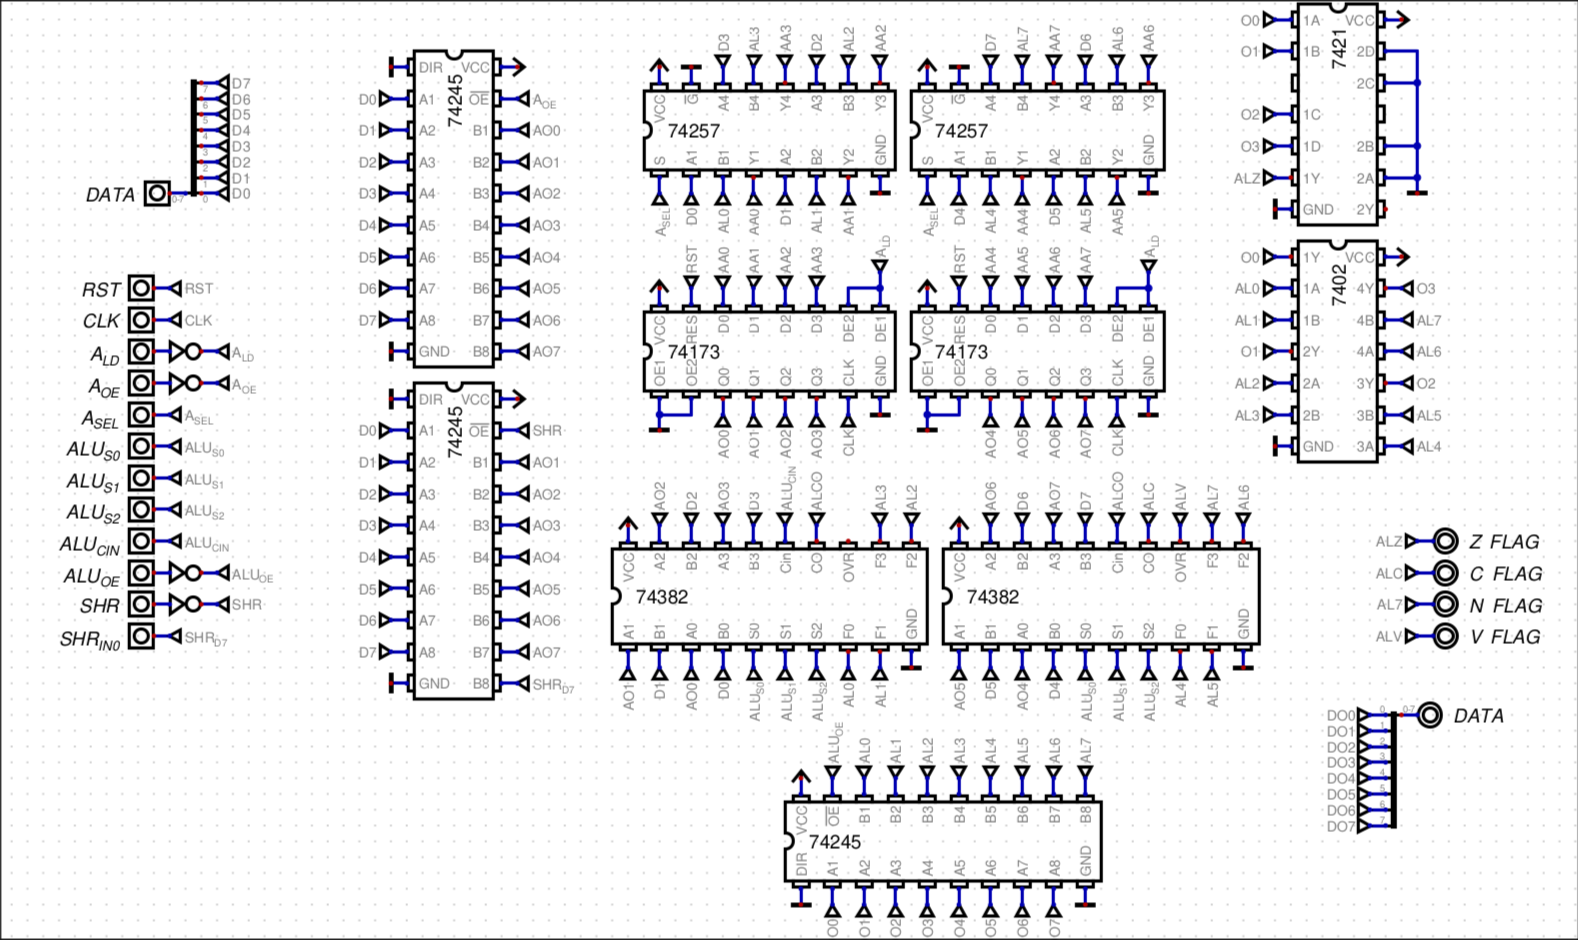
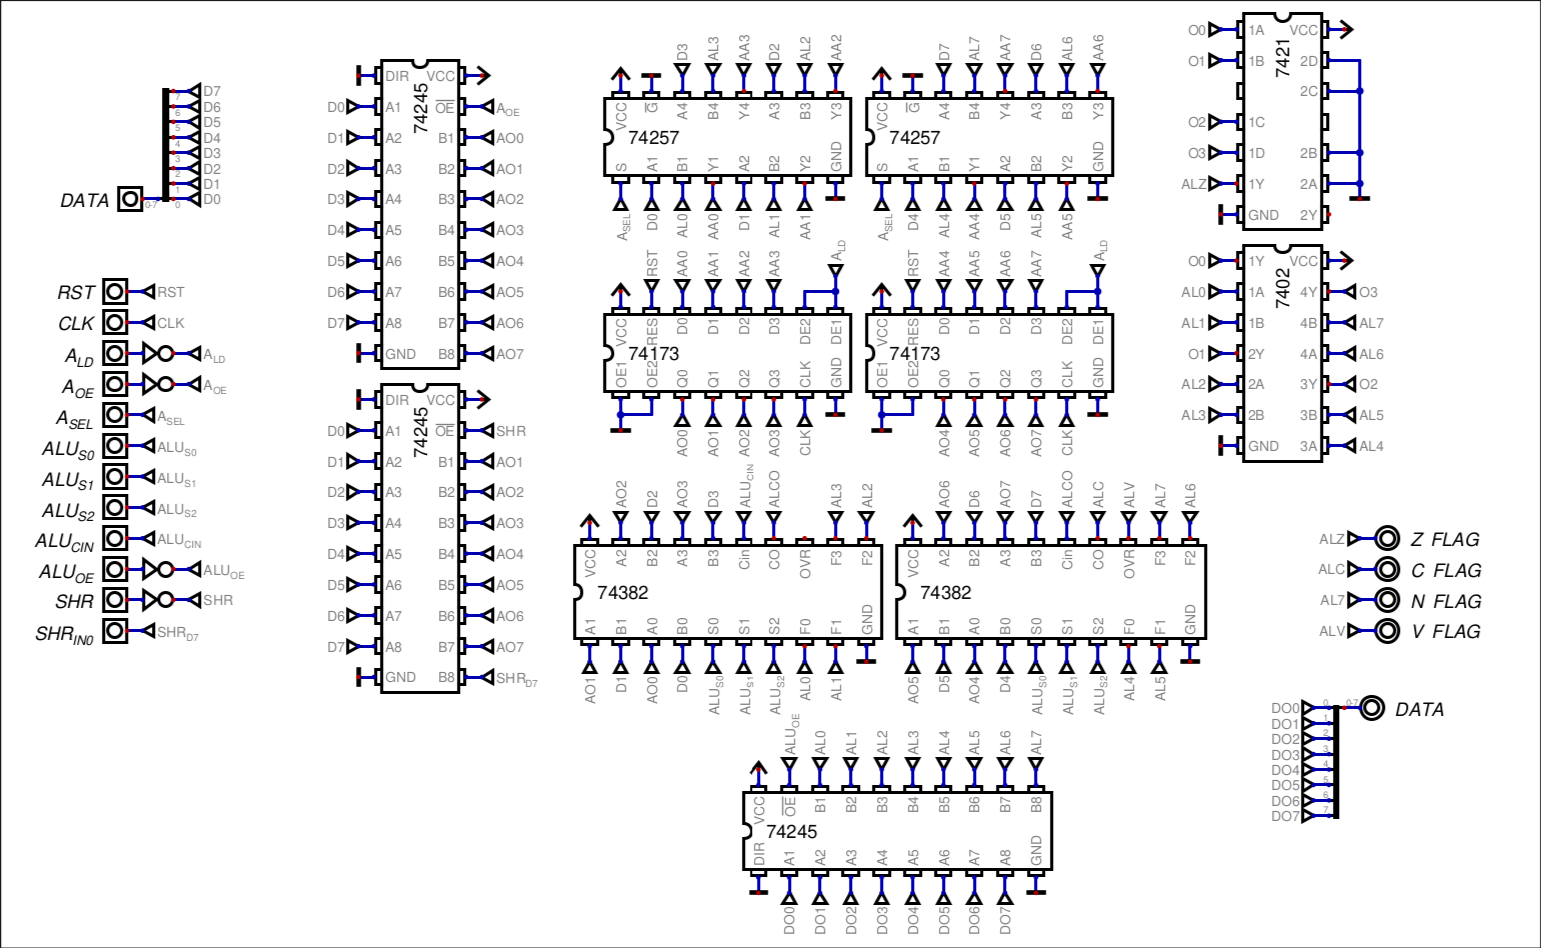
add images in html and register file doc

diff --git a/notes/hardware-design/RegisterFile.md b/notes/hardware-design/RegisterFile.md
@@ -2,6 +2,16 @@ The register file consists of 7, 8-bit GPRs, from which the first 5 are regular 
 
 As explained in [[../design-notes/05 Orthogonal Fixed Encoding with Opcode Extension]], bits `[10:8]` are connected to the demux of the register destination, and bits `[7:5]` are connected to the demux of the source register. Since they are 3 bits wide, the demux gives up to 2³ (8) possible combinations. Out of the 8, the first one (or default) is the accumulator, shown in the [[ALU]]. The 7 left are the registers which can be seen here:
 
-![Register File ICs](../Attachments/rfile.png)
+(picture of the block diagram)
 
+
+# XY Registers as a pointer pair
+
+The X and Y registers work as normal registers, since they can be accessed the same as any other register, but the key difference is that they can output at the same time to the 16-bit address bus.
 The decision to have both X and Y registers be up/down counters is explained: [[../design-notes/06 Registers X and Y INC arithmetic]].
+
+# ICs
+
+The Register file contains 74173 registers which paired up form an 8-bit register with a load enable and output enable in them. For the up/down counter, 74191 chips are also paired to make the 8-bit register, but these do not contain buffers for the output, so 2 74245 bi-directional buses are used, one for the output to the data bus, and one for the data to the address bus.
+
+<img src="../Attachments/rfile.png" alt="Register File ICs" width="750" />

diff --git a/notes/hardware-design/ALU.md b/notes/hardware-design/ALU.md
@@ -3,8 +3,8 @@ Since this is an accumulator-based architecture, I want to start with the Arithm
 
 Block diagram of the ALU module:
 
-![ALU Block Diagram|502](../Attachments/alu_abs.png)
-*TO BE CHANGED (ROR NOT NEEDED)*
+<img src="../Attachments/alu_abs.png" alt="ALU Block Diagram" width="500" />
+
 - Input A: Hardwired directly to the output of the accumulator
 - Input B: Connected to the data bus
 - Output path: Connected to the second input of a mux for the input of the accumulator and also connected to a buffer that outputs to the data bus.
@@ -42,6 +42,6 @@ Block diagram of the ALU module:
 | C    | Carry    | Carry-out pin of MSB adder stage  | $C = C_{out7}$                                    |
 | N    | Negative | Most Significant Bit of result    | $N = Y_7$                                         |
 | V    | Overflow | Overflow pin of MSB adder stage   | $V = V_{7}$                                       |
-# IC HARDWARE LOGIC
+# ICs HARDWARE LOGIC
 
-![ALU ICs](../Attachments/alu_ics.png)
+<img src="../Attachments/alu_ics.png" alt="ALU ICs" width="600" />

diff --git a/notes/design-notes/04 Uniform High-Byte Bit Instruction Set (DISCARDED).md b/notes/design-notes/04 Uniform High-Byte Bit Instruction Set (DISCARDED).md
@@ -8,8 +8,8 @@ The rest of the IRHB (bits 11-15) are connected to the control unit. This bits a
 For the IRLB (bits 0-7), normally they are all connected to the data bus with a buffer in between, which is activated when an immediate value is needed somewhere in the CPU, however, the last 3 bits (bits 5-7) are also hardwired into the register file to the register source bits.
 
 The connections are as following:
-![(DISCARDED) Instruction Datapath|474](../Attachments/(DISCARDED)ins_dp.png)
 
+<img src="../Attachments/(DISCARDED)ins_dp.png" alt="Instruction Decoding" width="500" />
 # TABLE OF INSTRUCTION CLASSES & BIT ENCODING
 
 | Instruction class                         | Opcode [15:11] | Rdst [10:8]            | Rsrc [7:5]  | Imm [7:0]      |

diff --git a/notes/archive/Previous CPU.md b/notes/archive/Previous CPU.md
@@ -15,7 +15,7 @@ One of the main issues this design has is that only having 4 general purpose reg
 This is related to the [[../design-notes/03 Fetch-Execute Overlap]]. This change felt natural just by seeing the amount of cycles that could be saved by making this change. 
 ## Design made in Digital
 
-![Previous CPU|633](../Attachments/oldcpu.png)
+<img src="../Attachments/oldcpu.png" alt="Previous CPU design" width="750" />
 
 *Note that at the top right part, the SCREEN, is not how the actual OLED screen of the new design works, but since this was the only one available in the simulator, the connections had to be done that way.*
 

diff --git a/notes/design-notes/05 Orthogonal Fixed Encoding with Opcode Extension.md b/notes/design-notes/05 Orthogonal Fixed Encoding with Opcode Extension.md
@@ -14,7 +14,7 @@ The way these bits are allocated is the following:
 - Bits `[7:5]`  --> Source Register Select (Rsrc)
 - Bits `[7:0]`  --> Immediate 8-bit data
 
-![[Pasted image 20260903205937.png|353]]
+<img src="../Attachments/instdec.png" alt="Instruction Decoding" width="500" />
 
 # TABLE OF INSTRUCTION CLASSES & BIT ENCODING
 

diff --git a/notes/hardware-design/ProgramCounter.md b/notes/hardware-design/ProgramCounter.md
@@ -1,0 +1,11 @@
+The program counter consists of 4 74161 4-bit binary counters, 
+
+
+
+
+
+
+
+
+
+<img src="../Attachments/pc_ics.png" alt="Program Counter ICs" width="800" />

diff --git a/notes/archive/Memory Map.md b/notes/archive/Memory Map.md
@@ -1,1 +1,1 @@
-![Memory Map](../Attachments/mmap.png)
+<img src="../Attachments/mmap.png" alt="Memory map" width="200" />

diff --git a/to-do.md b/to-do.md
@@ -1,0 +1,1 @@
+- fix images with html format for size "<img src="../Attachments/" alt="" width="" />"
